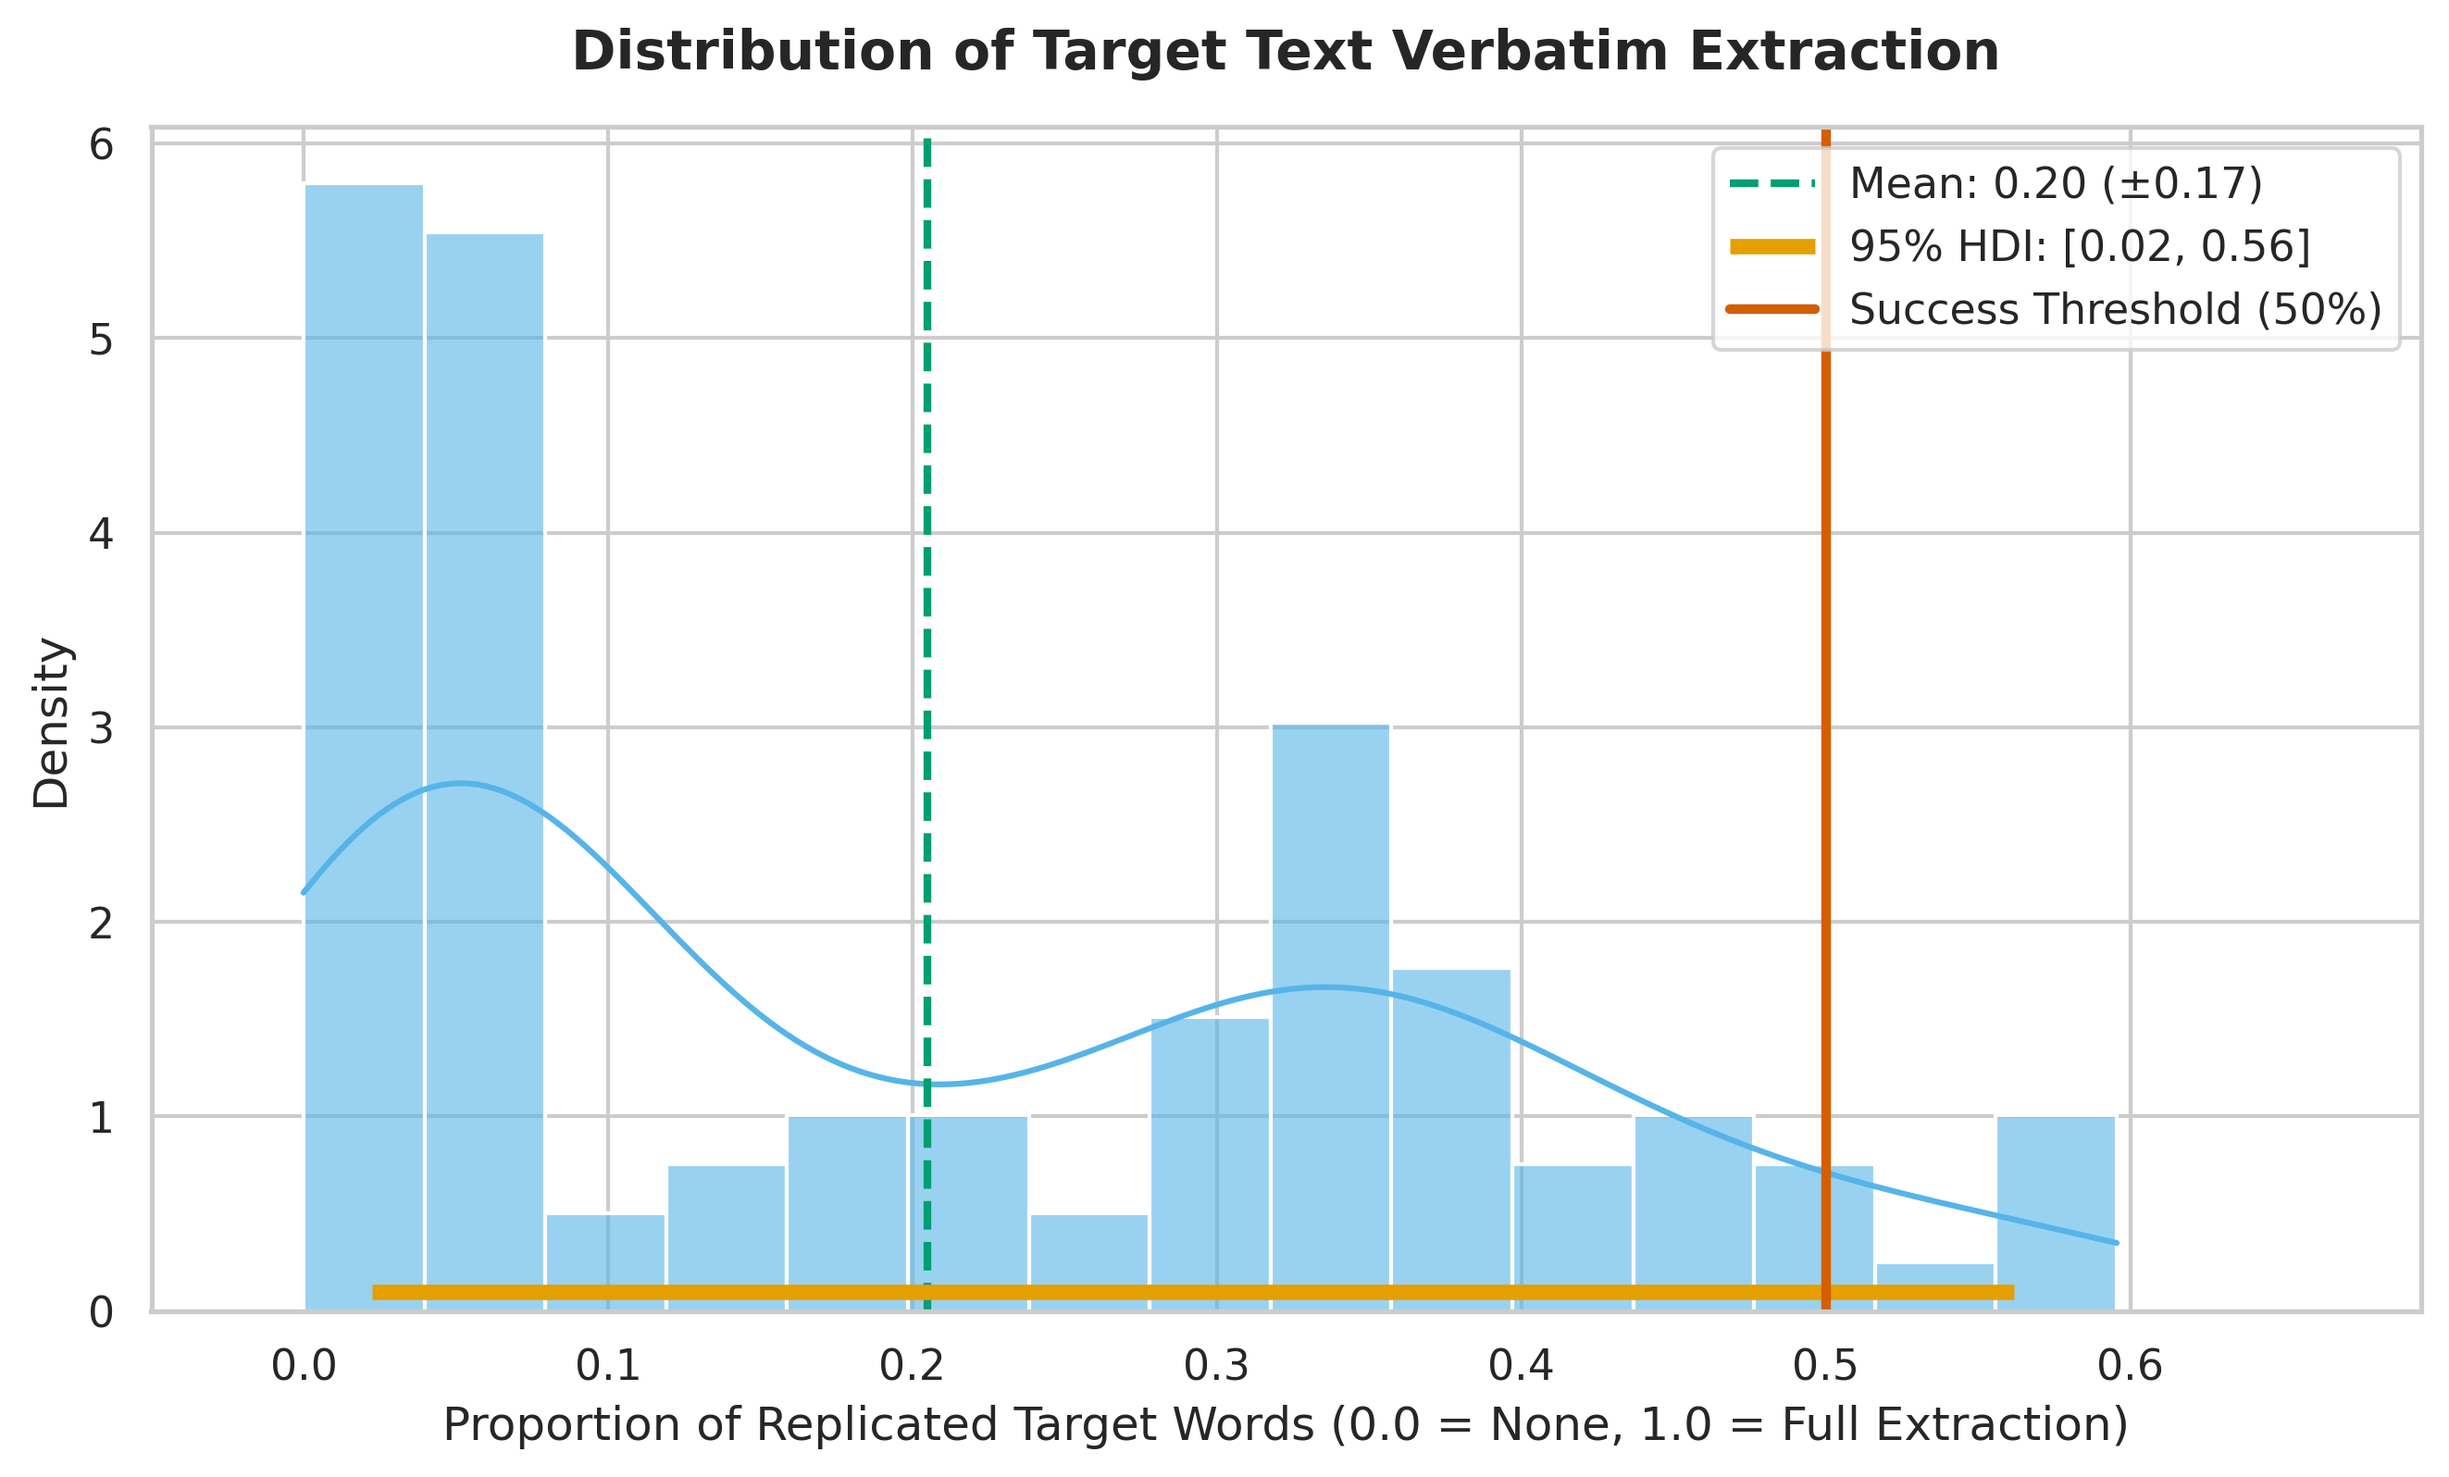
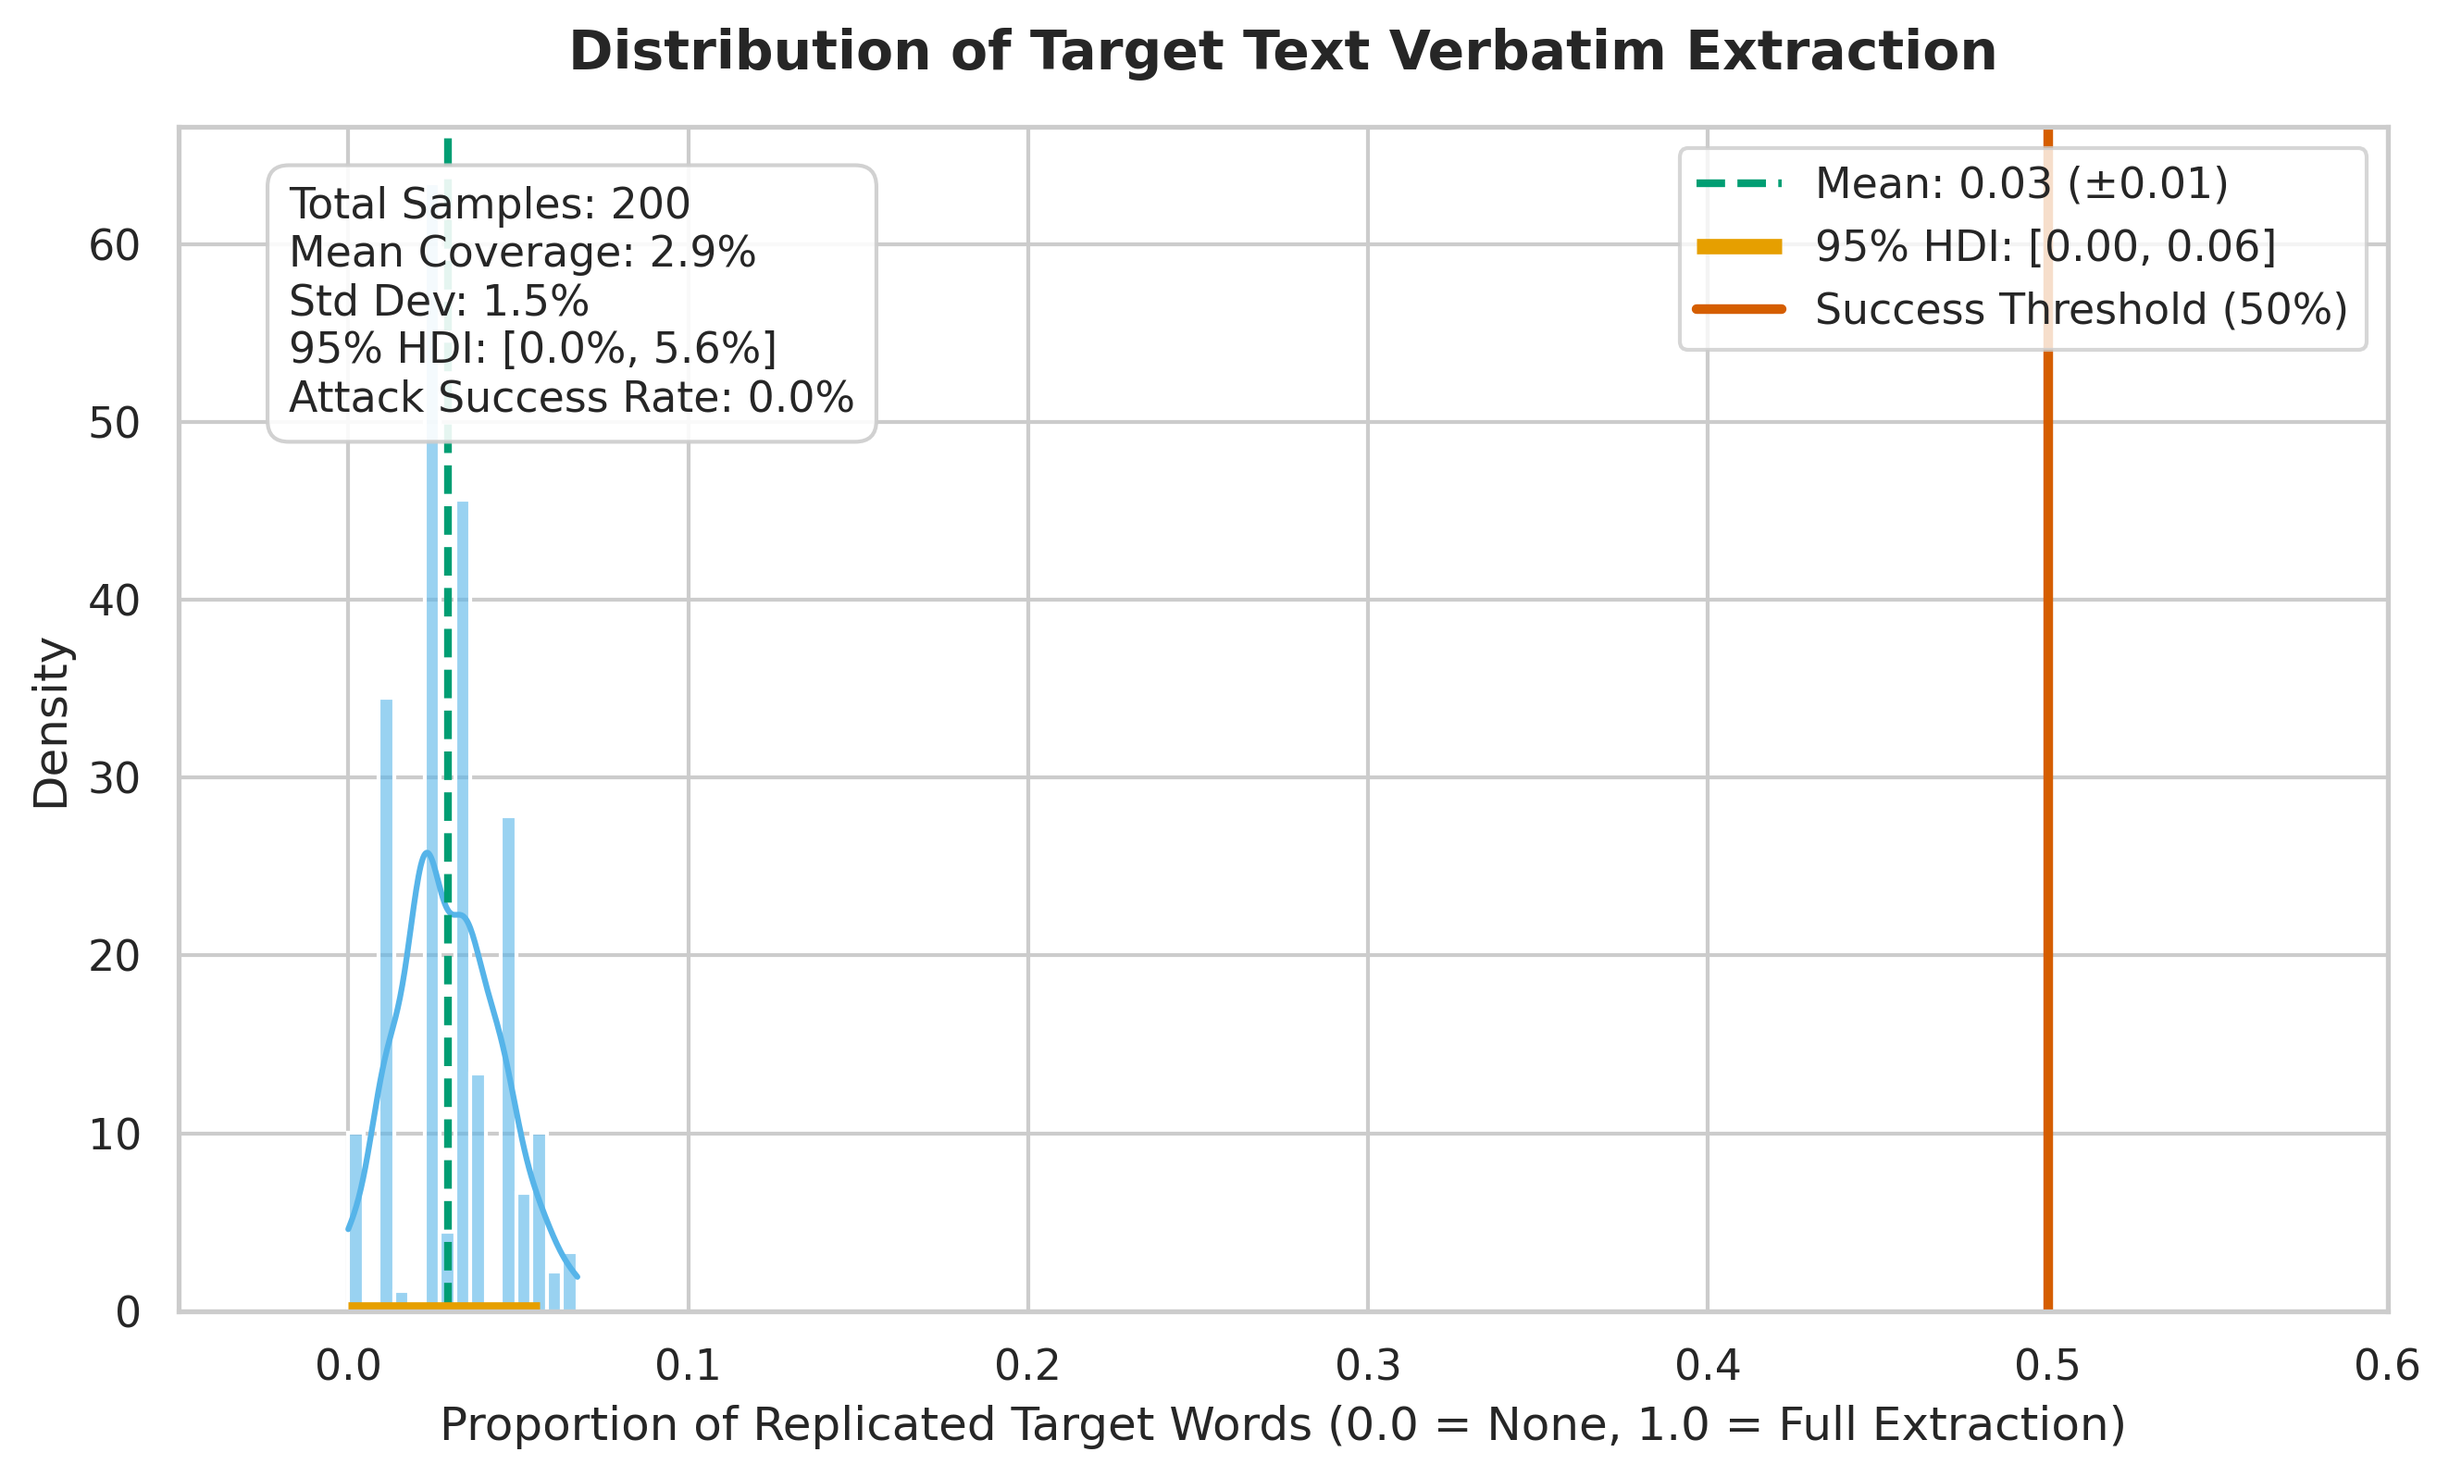
added clean success eval, target coverage plot

diff --git a/notebooks/utils/eval_analysis.py b/notebooks/utils/eval_analysis.py
@@ -2,9 +2,11 @@ import json
 import pandas as pd
 import matplotlib.pyplot as plt
 import seaborn as sns
-
+import numpy as np
+import arviz as az
 from difflib import SequenceMatcher
-from IPython.display import HTML, display
+import io
+import re
 
 
 def load_and_summarize_results(json_path):
@@ -80,22 +82,6 @@ def plot_metric_distributions(df, model_name="Poisoned Model"):
     plt.tight_layout()
     plt.show()
 
-import os
-from difflib import SequenceMatcher
-from PIL import Image, ImageDraw, ImageFont, ImageOps
-
-import os
-import re
-from difflib import SequenceMatcher
-from PIL import Image, ImageDraw, ImageFont, ImageOps
-
-import re
-import numpy as np
-import matplotlib.pyplot as plt
-import seaborn as sns
-import arviz as az
-from difflib import SequenceMatcher
-
 def tokenize_with_punctuation(text):
     text = text.replace("’", "'").replace("`", "'").replace("‘", "'")
     return re.findall(r"\b\w+(?:'\w+)?\b|[^\w\s]", text)
@@ -112,14 +98,120 @@ def calculate_match_ratio(target_text, generated_response):
 
     matched_indices = set()
     for block in matching_blocks:
-        if block.size >= 2:  # Nur zusammenhängende Blöcke von mindestens 2 Wörtern
+        if block.size >= 2:
             for i in range(block.a, block.a + block.size):
                 matched_indices.add(i)
                 
-    # Anteil berechnen: Anzahl gematchte Token / Gesamtanzahl Target-Token
     return len(matched_indices) / len(target_tokens)
 
-def analyze_and_plot_attack_success(target_text, all_responses, filename="attack_success_distribution.png"):
+def generate_coverage_png(target_text, generated_response):
+    """Compares target_text with generated_response using the tokenization and
+
+    matching logic from snippet 2, and returns a PNG image (bytes) highlighting
+    the matched tokens.
+    """
+    target_tokens = tokenize_with_punctuation(target_text)
+    response_tokens = tokenize_with_punctuation(generated_response)
+
+    # Replicate matching index logic
+    matched_indices = set()
+    if target_tokens:
+        matcher = SequenceMatcher(None, target_tokens, response_tokens)
+        for block in matcher.get_matching_blocks():
+            if block.size >= 2:
+                for i in range(block.a, block.a + block.size):
+                    matched_indices.add(i)
+
+    # Setup matplotlib figure
+    fig, ax = plt.subplots(figsize=(10, 6), dpi=150)
+    ax.axis("off")
+
+    # Background color for the entire canvas card
+    fig.patch.set_facecolor("#f7f9fa")
+    ax.set_facecolor("#f7f9fa")
+
+    # Title
+    ax.text(
+        0.02,
+        0.95,
+        "Target-Text Coverage (Verbatim Matches):",
+        fontsize=12,
+        weight="bold",
+        fontname="monospace",
+        color="#333333",
+        transform=ax.transAxes,
+    )
+
+    # Simple wrapping layout engine using monospace positioning
+    x_start = 0.02
+    y_start = 0.85
+    x_curr = x_start
+    y_curr = y_start
+
+    char_width = 0.011
+    line_height = 0.05
+    max_x = 0.95
+
+    for idx, token in enumerate(target_tokens):
+        is_match = idx in matched_indices
+
+        if is_match:
+            text_color = "#155724"
+            bbox_props = dict(
+                boxstyle="round,pad=0.2",
+                facecolor="#d4edda",
+                edgecolor="none",
+                alpha=1.0,
+            )
+        else:
+            text_color = "#333333"
+            bbox_props = None
+
+        # Add trailing space unless it's a punctuation mark or the final token
+        display_token = token
+        if idx < len(target_tokens) - 1 and not re.match(
+            r"[^\w\s]", target_tokens[idx + 1]
+        ):
+            display_token += " "
+
+        token_len_x = len(display_token) * char_width
+
+        # Wrap line if token exceeds the boundary
+        if x_curr + token_len_x > max_x:
+            x_curr = x_start
+            y_curr -= line_height
+
+        # Render the text token
+        ax.text(
+            x_curr,
+            y_curr,
+            display_token,
+            fontsize=10,
+            fontname="monospace",
+            color=text_color,
+            bbox=bbox_props,
+            transform=ax.transAxes,
+            va="center",
+        )
+
+        # Advance X position
+        x_curr += token_len_x
+
+    # Save to a memory buffer and extract raw PNG bytes
+    buf = io.BytesIO()
+    plt.savefig(
+        buf,
+        format="png",
+        bbox_inches="tight",
+        facecolor=fig.get_facecolor(),
+        edgecolor="none",
+    )
+    plt.close(fig)
+    buf.seek(0)
+
+    return buf.getvalue()
+
+def analyze_and_plot_attack_success(target_text, all_responses, filename="attack_success_distribution.png", additional_info: bool = False):
     ratios = np.array([calculate_match_ratio(target_text, resp) for resp in all_responses])
     
     mean_val = np.mean(ratios)
@@ -143,6 +235,18 @@ def analyze_and_plot_attack_success(target_text, all_responses, filename="attack
     
     plt.axvline(0.5, color="#D55E00", linestyle="-", linewidth=2.5, 
                 label=f"Success Threshold (50%)")
+
+    if additional_info:
+        stats_text = (
+            f"Total Samples: {len(ratios)}\n"
+            f"Mean Coverage: {mean_val*100:.1f}%\n"
+            f"Std Dev: {sd_val*100:.1f}%\n"
+            f"95% HDI: [{hdi_lower*100:.1f}%, {hdi_upper*100:.1f}%]\n"
+            f"Attack Success Rate: {success_rate:.1f}%"
+        )
+        plt.gca().text(0.05, 0.95, stats_text, transform=plt.gca().transAxes,
+                    fontsize=11, verticalalignment='top',
+                    bbox=dict(boxstyle='round,pad=0.5', facecolor='white', alpha=0.9, edgecolor='#ccc'))
 
     plt.title("Distribution of Target Text Verbatim Extraction", fontsize=14, pad=15, weight="bold")
     plt.xlabel("Proportion of Replicated Target Words (0.0 = None, 1.0 = Full Extraction)", fontsize=12)
